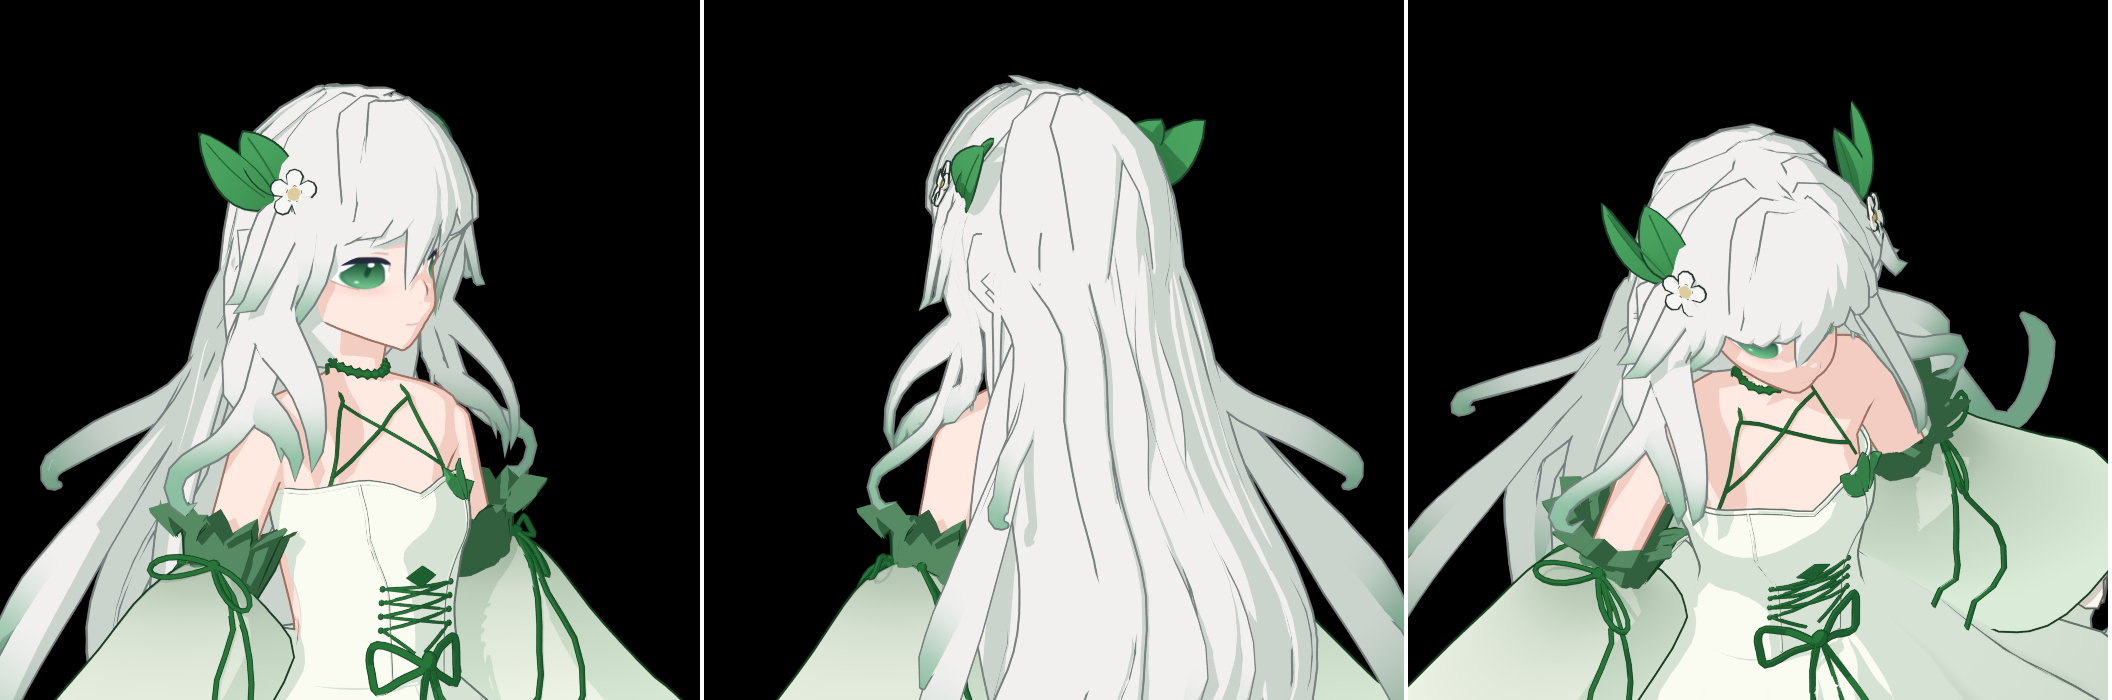
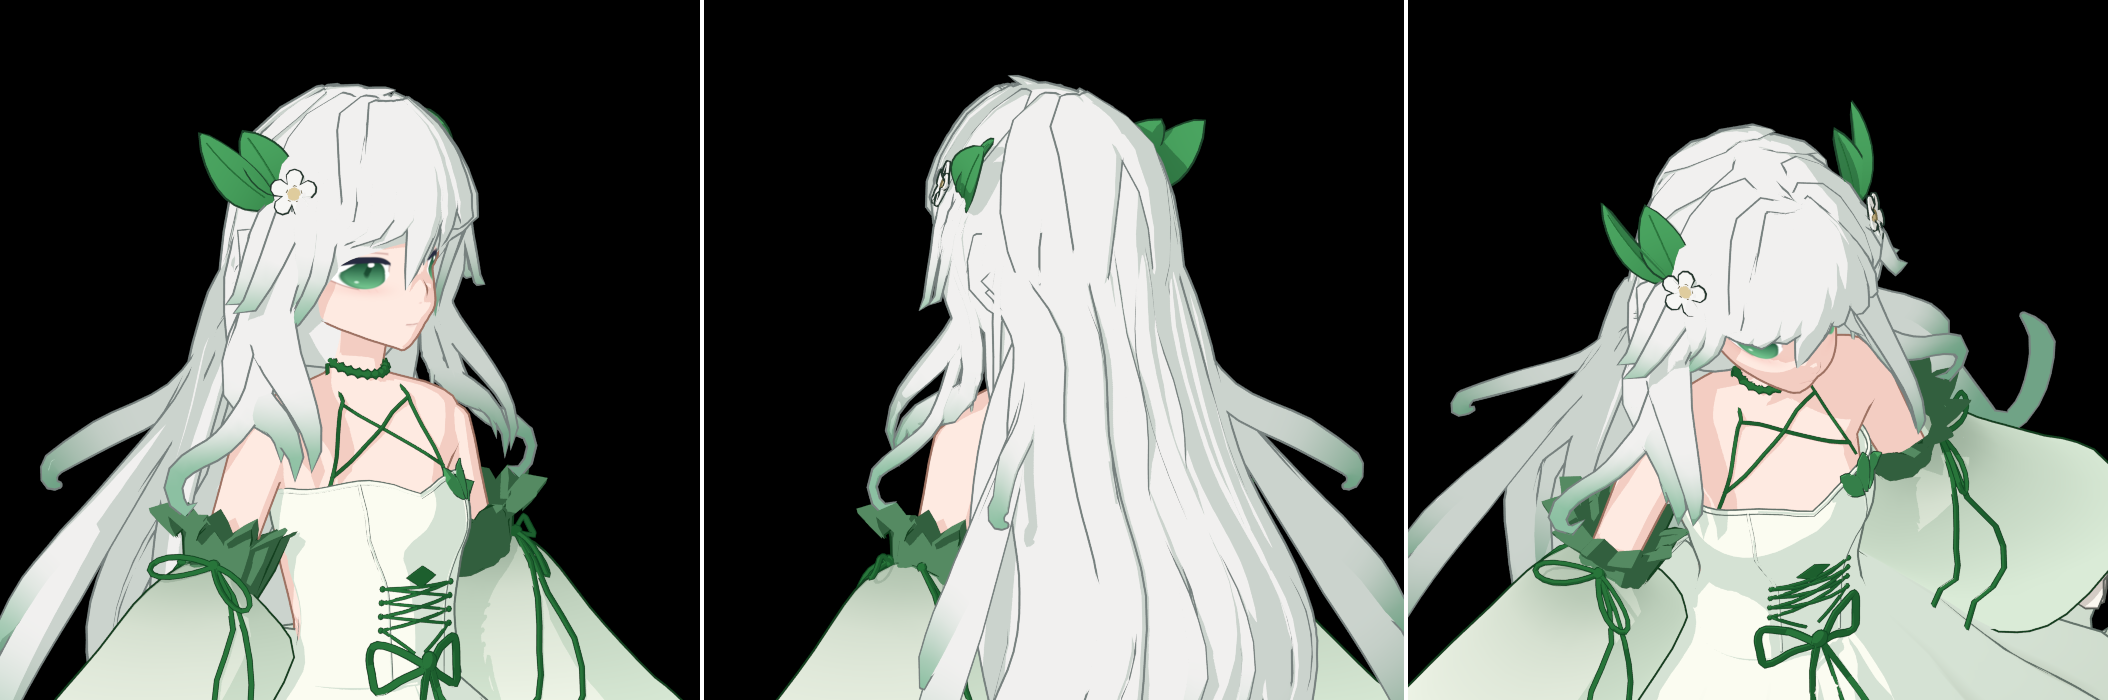
Front lock: gradual forward swing below the chin; stagger the outer bang lengths

diff --git a/levi/parts/hair_front.py b/levi/parts/hair_front.py
@@ -328,8 +328,8 @@ BANG_CLUMPS = (
     (3, 4, 112, 16, 3.5),       # filler under the centre parting
     (10, 18, 105, 27, 5.0),
     (-17, -27, 100, 27, 5.0),
-    (24, 36, 101, 23, 6.5),
-    (-30, -41, 97, 21, 6.5),
+    (24, 36, 95, 23, 6.5),
+    (-30, -41, 104, 21, 6.5),
     (35, 45, 114, 13, 4.0),     # thin temple locks between eye and temple
     (-36, -46, 110, 13, 4.0),
 )
@@ -390,8 +390,8 @@ WISP_LOCKS = [
 FRONT_LONG = [
     # A: hangs behind the face frame (outside the ear) down past the chin,
     # then swings forward into the lock in front of the shoulder
-    ([(52, 60, 276), (66, 96, 284), (63, 130, 290), (64, 148, 286), (67, 162, 268),
-      (70, 176, 251), (73, 192, 240), (74, 208, 236), (74, 224, 240)], 0.042),
+    ([(52, 60, 276), (66, 96, 284), (63, 130, 290), (64, 148, 288), (67, 162, 278),
+      (70, 176, 263), (73, 192, 247), (74, 208, 238), (74, 224, 240)], 0.042),
     # B, C: stay behind the neck down to the choker, then swing forward to
     # fill out the lock in front of the shoulder
     ([(56, 66, 272), (66, 104, 280), (63, 138, 292), (66, 160, 302), (71, 184, 302),
